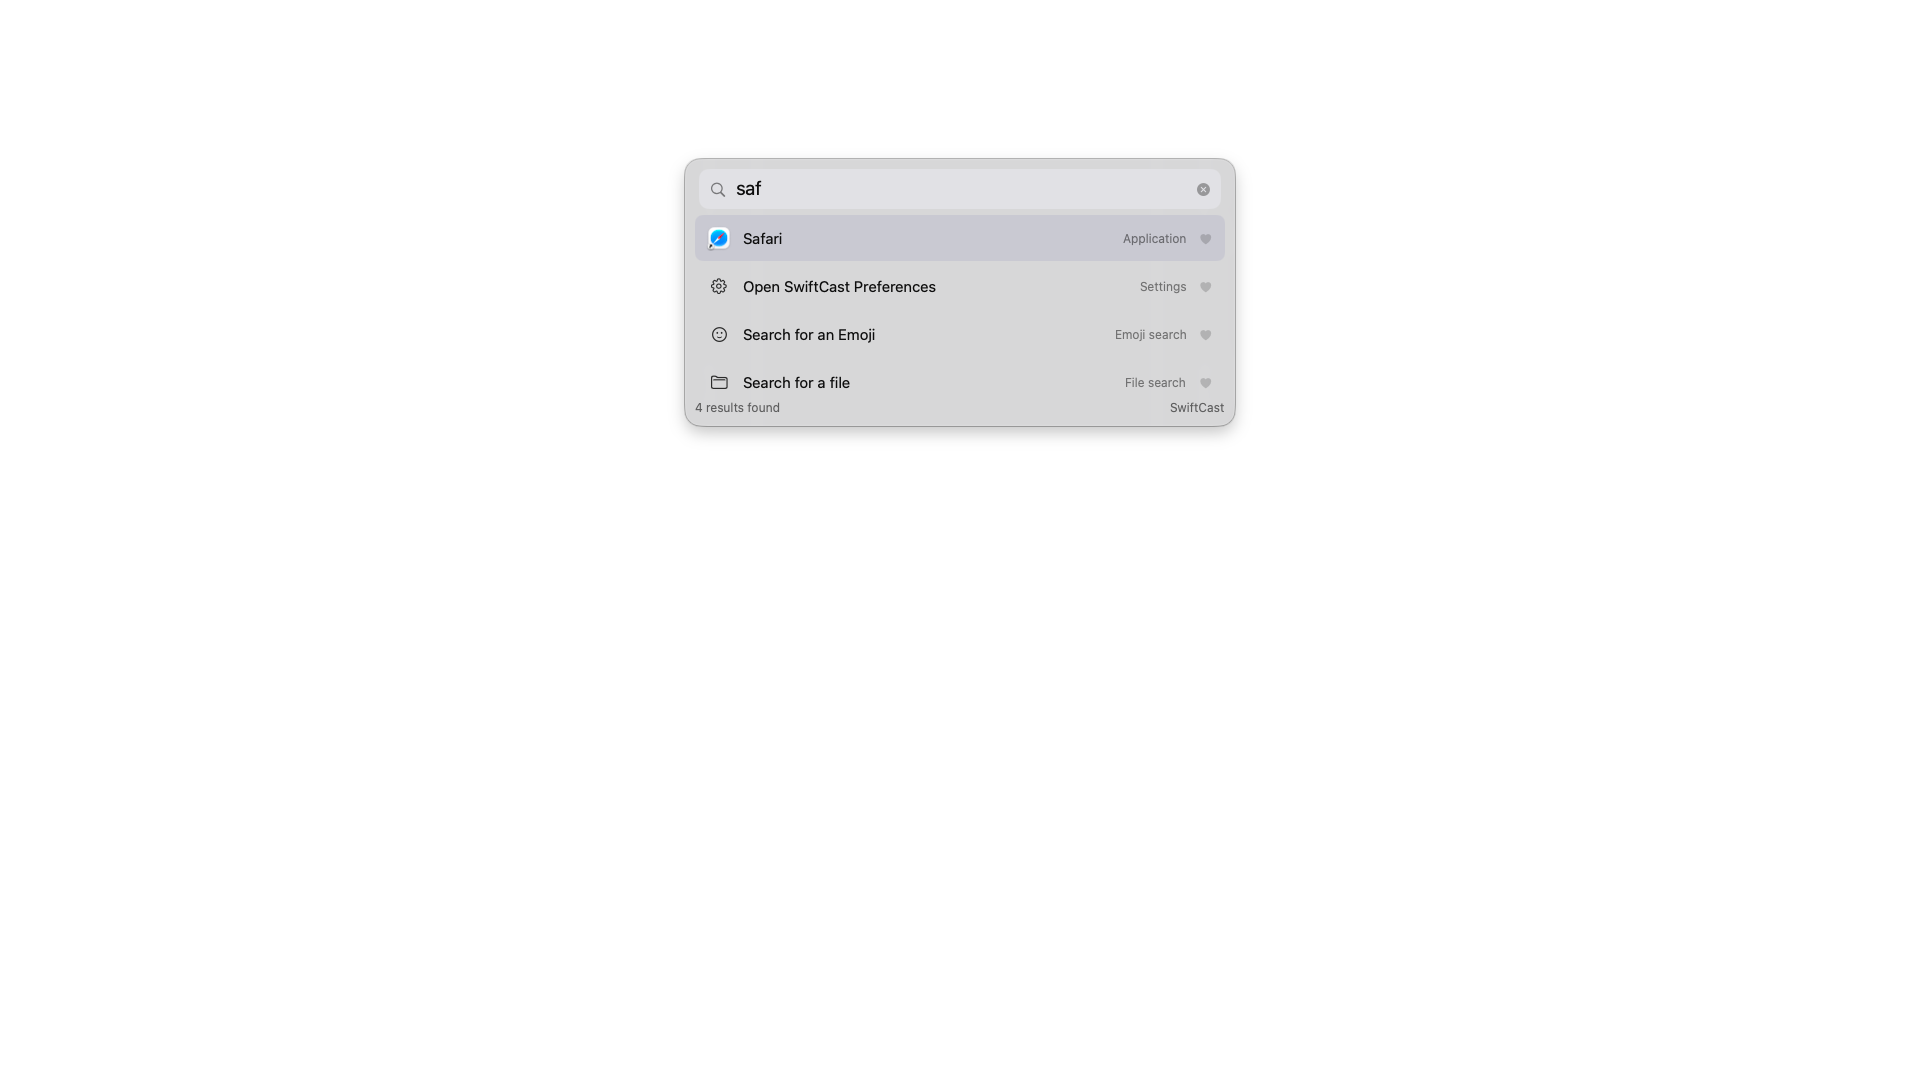
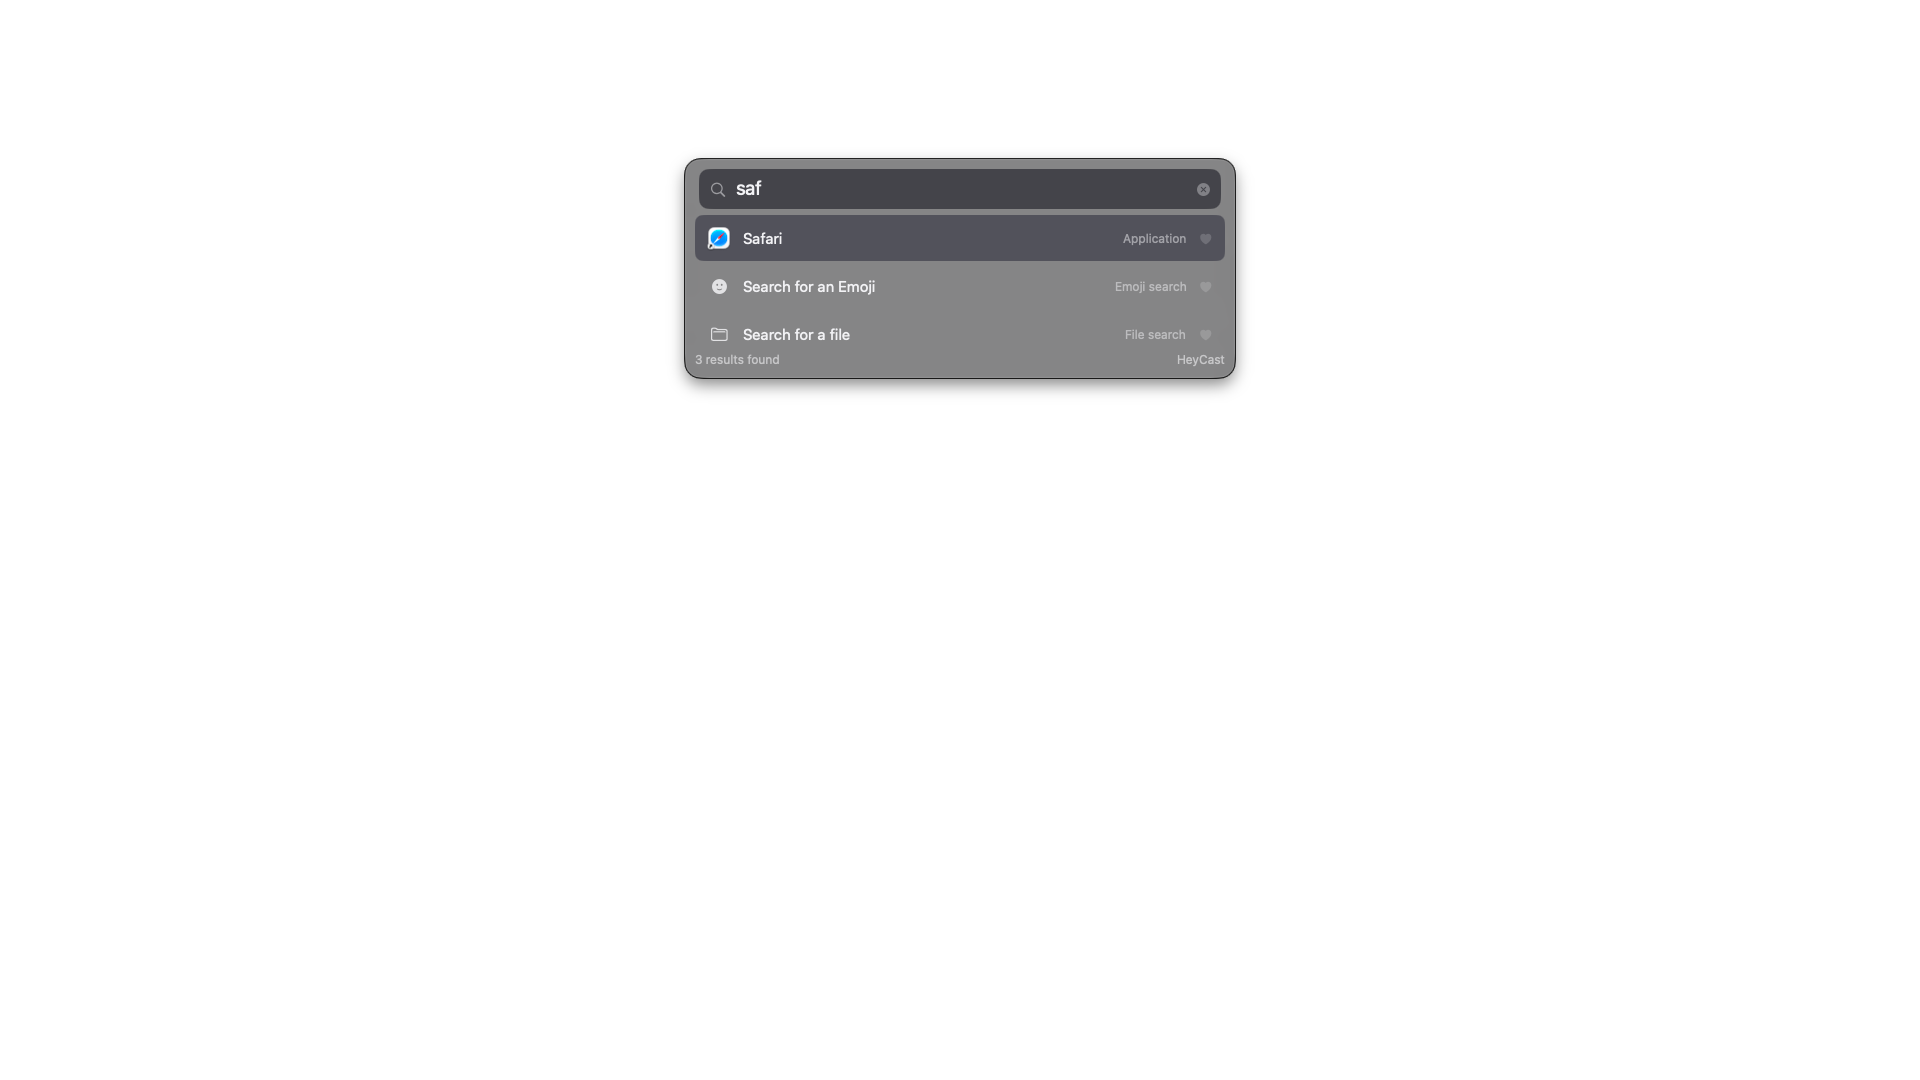
Rebrand SwiftCast -> HeyCast
Hey = the first word that starts everything; cast = call it out, invoke it.

- Module/sources: Sources/HeyCast, target HeyCast
- Bundle id com.heycast.app, URL scheme heycast:// (all debug actions)
- Carbon hotkey signature SWCS -> HEYC
- UI strings: menus, settings window title, footer, version row
- Config/clipboard/ranking dir: ~/Library/Application Support/HeyCast
  (data migrated from SwiftCast dir)
- README/PLAN rebranded with the name rationale; refreshed screenshots

Changed region(s): [[0.3438, 0.1222, 0.6562, 0.4278]]

diff --git a/Sources/HeyCast/AppDelegate.swift b/Sources/HeyCast/AppDelegate.swift
@@ -18,7 +18,7 @@ final class AppDelegate: NSObject, NSApplicationDelegate {
         Self.shared = self
     }
 
-    /// Setup runs here (before Apple events like swiftcast:// URLs arrive).
+    /// Setup runs here (before Apple events like heycast:// URLs arrive).
     func applicationWillFinishLaunching(_ notification: Notification) {
         NSApp.setActivationPolicy(.accessory)
 
@@ -43,7 +43,7 @@ final class AppDelegate: NSObject, NSApplicationDelegate {
         if model.config.showOnStartup {
             model.show()
         }
-        NSLog("SwiftCast started (v%@)", LauncherModel.appVersion)
+        NSLog("HeyCast started (v%@)", LauncherModel.appVersion)
     }
 
     func applicationShouldTerminateAfterLastWindowClosed(_ sender: NSApplication) -> Bool { false }
@@ -52,30 +52,30 @@ final class AppDelegate: NSObject, NSApplicationDelegate {
         model?.saveRankingNow()
     }
 
-    // MARK: URL scheme (swiftcast://show | toggle | quit | open?target=NAME)
+    // MARK: URL scheme (heycast://show | toggle | quit | open?target=NAME)
 
     func application(_ application: NSApplication, open urls: [URL]) {
-        NSLog("SwiftCast: open URLs called: \(urls)")
+        NSLog("HeyCast: open URLs called: \(urls)")
         guard model != nil else {
             pendingURLs.append(contentsOf: urls)
             return
         }
-        for url in urls where url.scheme?.lowercased() == "swiftcast" {
+        for url in urls where url.scheme?.lowercased() == "heycast" {
             handleURLScheme(url)
         }
     }
 
     private func handleURLScheme(_ url: URL) {
         let host = url.host?.lowercased() ?? url.path.trimmingCharacters(in: CharacterSet(charactersIn: "/"))
-        NSLog("SwiftCast: URL scheme action '\(host)'")
+        NSLog("HeyCast: URL scheme action '\(host)'")
         switch host {
         case "show":
             if !model.panelIsVisible { model.show() }
         case "toggle":
             model.toggle()
         case "screenshot":
-            // Debug aid: capture the launcher panel to /tmp/swiftcast_panel.png
-            panelController.capturePanel(to: URL(fileURLWithPath: "/tmp/swiftcast_panel.png"))
+            // Debug aid: capture the launcher panel to /tmp/heycast_panel.png
+            panelController.capturePanel(to: URL(fileURLWithPath: "/tmp/heycast_panel.png"))
         case "capture":
             panelController.captureAllWindows()
         case "query":
@@ -134,9 +134,9 @@ func buildMainMenu() -> NSMenu {
     let appItem = NSMenuItem()
     menu.addItem(appItem)
     let appMenu = NSMenu()
-    appMenu.addItem(NSMenuItem(title: "About SwiftCast", action: #selector(NSApplication.orderFrontStandardAboutPanel(_:)), keyEquivalent: ""))
+    appMenu.addItem(NSMenuItem(title: "About HeyCast", action: #selector(NSApplication.orderFrontStandardAboutPanel(_:)), keyEquivalent: ""))
     appMenu.addItem(.separator())
-    appMenu.addItem(NSMenuItem(title: "Quit SwiftCast", action: #selector(NSApplication.terminate(_:)), keyEquivalent: "q"))
+    appMenu.addItem(NSMenuItem(title: "Quit HeyCast", action: #selector(NSApplication.terminate(_:)), keyEquivalent: "q"))
     appItem.submenu = appMenu
 
     let editItem = NSMenuItem()

diff --git a/Sources/HeyCast/UI/PanelController.swift b/Sources/HeyCast/UI/PanelController.swift
@@ -84,17 +84,17 @@ final class PanelController: NSObject, NSWindowDelegate {
     // MARK: show/hide
 
     private func showPanel() {
-        NSLog("SwiftCast: showPanel (frame before: \(panel.frame))")
+        NSLog("HeyCast: showPanel (frame before: \(panel.frame))")
         positionPanelIfNeeded()
         resizeToFitContent()
         NSApp.activate(ignoringOtherApps: true)
         panel.makeKeyAndOrderFront(nil)
         isPositionedOnce = true
-        NSLog("SwiftCast: showPanel done (frame after: \(panel.frame), visible: \(panel.isVisible), key: \(panel.isKeyWindow))")
+        NSLog("HeyCast: showPanel done (frame after: \(panel.frame), visible: \(panel.isVisible), key: \(panel.isKeyWindow))")
     }
 
     private func hidePanel() {
-        NSLog("SwiftCast: hidePanel called")
+        NSLog("HeyCast: hidePanel called")
         panel.orderOut(nil)
     }
 
@@ -240,20 +240,20 @@ final class PanelController: NSObject, NSWindowDelegate {
     func captureAllWindows() {
         for (index, window) in NSApp.windows.enumerated() where window.isVisible && window.frame.width > 1 && window.windowNumber > 0 {
             let label = window == panel ? "panel" : "win\(index)"
-            captureWindow(window, to: URL(fileURLWithPath: "/tmp/swiftcast_\(label).png"))
+            captureWindow(window, to: URL(fileURLWithPath: "/tmp/heycast_\(label).png"))
         }
     }
 
     private func captureWindow(_ window: NSWindow, to url: URL) {
         let number = window.windowNumber
-        NSLog("SwiftCast: capturing window num=\(number) title=\(window.title) visible=\(window.isVisible)")
+        NSLog("HeyCast: capturing window num=\(number) title=\(window.title) visible=\(window.isVisible)")
         guard number > 0, number < Int(UInt32.max) else { return }
         let windowID = CGWindowID(UInt32(number))
         if let cgImage = CGWindowListCreateImage(.infinite, .optionIncludingWindow, windowID, [.bestResolution]) {
             let rep = NSBitmapImageRep(cgImage: cgImage)
             if let png = rep.representation(using: .png, properties: [:]) {
                 try? png.write(to: url)
-                NSLog("SwiftCast: captured \(url.path)")
+                NSLog("HeyCast: captured \(url.path)")
             }
         }
     }
@@ -263,7 +263,7 @@ final class PanelController: NSObject, NSWindowDelegate {
     func windowDidResignKey(_ notification: Notification) {
         // Hide when the launcher loses focus, unless the settings window
         // (owned by the same app) took it.
-        if let key = NSApp.keyWindow, key != panel, key.identifier == NSUserInterfaceItemIdentifier("SwiftCastSettings") {
+        if let key = NSApp.keyWindow, key != panel, key.identifier == NSUserInterfaceItemIdentifier("HeyCastSettings") {
             return
         }
         if model.panelIsVisible {

diff --git a/Sources/HeyCast/Model/LauncherModel.swift b/Sources/HeyCast/Model/LauncherModel.swift
@@ -360,7 +360,7 @@ final class LauncherModel: ObservableObject {
         // Quit …
         if query.lowercased().hasPrefix("quit") {
             out.append(ResultItem(id: "builtin-quit-self",
-                                  title: "Quit SwiftCast",
+                                  title: "Quit HeyCast",
                                   subtitle: "Utility",
                                   icon: .symbol("power"),
                                   action: .quitSelf))
@@ -472,7 +472,7 @@ final class LauncherModel: ObservableObject {
 
     private func builtinResults() -> [ResultItem] {
         var out = [
-            ResultItem(id: "builtin-settings", title: "Open SwiftCast Preferences", subtitle: "Settings",
+            ResultItem(id: "builtin-settings", title: "Open HeyCast Preferences", subtitle: "Settings",
                        icon: .symbol("gearshape"), searchName: "settings", action: .openSettings),
             ResultItem(id: "builtin-emoji", title: "Search for an Emoji", subtitle: "Emoji search",
                        icon: .symbol("face.smiling"), searchName: "emoji", action: .switchPage(.emoji)),
@@ -480,9 +480,9 @@ final class LauncherModel: ObservableObject {
                        icon: .symbol("clipboard"), searchName: "clipboard", action: .switchPage(.clipboard)),
             ResultItem(id: "builtin-files", title: "Search for a file", subtitle: "File search",
                        icon: .symbol("folder"), searchName: "file search", action: .switchPage(.files)),
-            ResultItem(id: "builtin-reload", title: "Reload SwiftCast", subtitle: "Reloads config & apps",
+            ResultItem(id: "builtin-reload", title: "Reload HeyCast", subtitle: "Reloads config & apps",
                        icon: .symbol("arrow.clockwise"), searchName: "reload", action: .reload),
-            ResultItem(id: "builtin-version", title: "SwiftCast v\(Self.appVersion)", subtitle: "Native Swift port of RustCast",
+            ResultItem(id: "builtin-version", title: "HeyCast v\(Self.appVersion)", subtitle: "Native Swift port of RustCast",
                        icon: .symbol("bolt.fill"), action: .display),
             ResultItem(id: "builtin-ferris", title: "Ferris Plushies", subtitle: "Easter egg",
                        icon: .symbol("crown"), action: .openURL(URL(string: "https://ferris.rs")!)),

diff --git a/Sources/HeyCast/UI/StatusItemController.swift b/Sources/HeyCast/UI/StatusItemController.swift
@@ -10,7 +10,7 @@ final class StatusItemController {
         self.model = model
         guard model.config.showTrayIcon else { return }
         let item = NSStatusBar.system.statusItem(withLength: NSStatusItem.squareLength)
-        let icon = NSImage(systemSymbolName: "bolt.fill", accessibilityDescription: "SwiftCast")?
+        let icon = NSImage(systemSymbolName: "bolt.fill", accessibilityDescription: "HeyCast")?
             .withSymbolConfiguration(.init(pointSize: 13, weight: .semibold))
         item.button?.image = icon
         item.menu = buildMenu()
@@ -30,7 +30,7 @@ final class StatusItemController {
 
     private func buildMenu() -> NSMenu {
         let menu = NSMenu()
-        let version = NSMenuItem(title: "SwiftCast v\(LauncherModel.appVersion)", action: nil, keyEquivalent: "")
+        let version = NSMenuItem(title: "HeyCast v\(LauncherModel.appVersion)", action: nil, keyEquivalent: "")
         version.isEnabled = false
         menu.addItem(version)
 
@@ -63,7 +63,7 @@ final class StatusItemController {
 
         menu.addItem(.separator())
 
-        let about = NSMenuItem(title: "About SwiftCast", action: #selector(showAbout), keyEquivalent: "")
+        let about = NSMenuItem(title: "About HeyCast", action: #selector(showAbout), keyEquivalent: "")
         about.target = self
         menu.addItem(about)
 
@@ -73,7 +73,7 @@ final class StatusItemController {
 
         menu.addItem(.separator())
 
-        let quit = NSMenuItem(title: "Quit SwiftCast", action: #selector(quit), keyEquivalent: "q")
+        let quit = NSMenuItem(title: "Quit HeyCast", action: #selector(quit), keyEquivalent: "q")
         quit.keyEquivalentModifierMask = [.command]
         quit.target = self
         menu.addItem(quit)
@@ -90,7 +90,7 @@ final class StatusItemController {
     }
     @objc private func showAbout() {
         NSApplication.shared.orderFrontStandardAboutPanel(options: [
-            .applicationName: "SwiftCast",
+            .applicationName: "HeyCast",
             .applicationVersion: LauncherModel.appVersion,
         ])
     }

diff --git a/Sources/HeyCast/UI/SettingsWindow.swift b/Sources/HeyCast/UI/SettingsWindow.swift
@@ -5,7 +5,7 @@ import SwiftUI
 /// config and pushes it into the model (which persists + applies hotkeys).
 @MainActor
 final class SettingsWindowController {
-    static let windowIdentifier = "SwiftCastSettings"
+    static let windowIdentifier = "HeyCastSettings"
 
     private var window: NSWindow?
     private weak var model: LauncherModel?
@@ -13,7 +13,7 @@ final class SettingsWindowController {
     func show(model: LauncherModel) {
         self.model = model
         if window == nil {
-            NSLog("SwiftCast: creating settings window")
+            NSLog("HeyCast: creating settings window")
             let content = SettingsView(model: model)
             let window = NSWindow(
                 contentRect: NSRect(x: 0, y: 0, width: 620, height: 480),
@@ -21,7 +21,7 @@ final class SettingsWindowController {
                 backing: .buffered,
                 defer: false
             )
-            window.title = "SwiftCast Settings"
+            window.title = "HeyCast Settings"
             window.identifier = NSUserInterfaceItemIdentifier(Self.windowIdentifier)
             window.isReleasedWhenClosed = false
             window.center()
@@ -31,7 +31,7 @@ final class SettingsWindowController {
         }
         window?.makeKeyAndOrderFront(nil)
         NSApp.activate(ignoringOtherApps: true)
-        NSLog("SwiftCast: settings window shown (visible: \(window?.isVisible ?? false))")
+        NSLog("HeyCast: settings window shown (visible: \(window?.isVisible ?? false))")
     }
 
     func hide() {

diff --git a/Sources/HeyCast/UI/LauncherView.swift b/Sources/HeyCast/UI/LauncherView.swift
@@ -23,7 +23,7 @@ struct LauncherView: View {
             }
         }
         .frame(maxWidth: .infinity, maxHeight: .infinity)
-        .environment(\.swiftcastTheme, model.theme)
+        .environment(\.heycastTheme, model.theme)
         .onReceive(model.$panelIsVisible) { visible in
             searchFocused = visible
         }
@@ -146,7 +146,7 @@ struct LauncherView: View {
 
     private var pageLabel: String {
         switch model.page {
-        case .main: return "SwiftCast"
+        case .main: return "HeyCast"
         case .files: return "File search"
         case .clipboard: return "Clipboard"
         case .emoji: return "Emoji"
@@ -274,7 +274,7 @@ private struct ThemeKey: EnvironmentKey {
 }
 
 extension EnvironmentValues {
-    var swiftcastTheme: Theme {
+    var heycastTheme: Theme {
         get { self[ThemeKey.self] }
         set { self[ThemeKey.self] = newValue }
     }

diff --git a/Sources/HeyCast/Search/FileSearchService.swift b/Sources/HeyCast/Search/FileSearchService.swift
@@ -30,7 +30,7 @@ final class FileSearchService: NSObject, NSMetadataQueryDelegate {
             ? [NSMetadataQueryLocalComputerScope]
             : searchDirs.map { ($0 as NSString).expandingTildeInPath }
         mdQuery.searchScopes = scopes
-        NSLog("SwiftCast: mdquery scopes: \(scopes)")
+        NSLog("HeyCast: mdquery scopes: \(scopes)")
         // Escape quotes/wildcards for the LIKE pattern, then pass the whole
         // pattern as the predicate argument (embedding %@ inside quotes
         // breaks the pattern match).
@@ -88,7 +88,7 @@ final class FileSearchService: NSObject, NSMetadataQueryDelegate {
         }
         query.enableUpdates()
         results = hits
-        NSLog("SwiftCast: file search collected \(hits.count) hits")
+        NSLog("HeyCast: file search collected \(hits.count) hits")
         onUpdate?()
     }
 

diff --git a/Sources/HeyCast/Services/HotKeyManager.swift b/Sources/HeyCast/Services/HotKeyManager.swift
@@ -140,7 +140,7 @@ final class HotKeyManager {
         let id = nextID
         nextID += 1
         var ref: EventHotKeyRef?
-        let hotKeyID = EventHotKeyID(signature: OSType(0x53574353) /* SWCS */, id: id)
+        let hotKeyID = EventHotKeyID(signature: OSType(0x48455943) /* HEYC */, id: id)
         let status = RegisterEventHotKey(
             shortcut.keyCode,
             shortcut.modifiers.carbonFlags,
@@ -150,7 +150,7 @@ final class HotKeyManager {
             &ref
         )
         guard status == noErr else {
-            NSLog("SwiftCast: failed to register hotkey %@ (%d)", shortcut.displayString, status)
+            NSLog("HeyCast: failed to register hotkey %@ (%d)", shortcut.displayString, status)
             return
         }
         registrations.append(Registration(shortcut: shortcut, id: id, hotKeyRef: ref))

diff --git a/Sources/HeyCast/Services/ClipboardStore.swift b/Sources/HeyCast/Services/ClipboardStore.swift
@@ -26,13 +26,13 @@ struct ClipboardEntry: Identifiable, Equatable {
 /// RustCast's clipboard.db schema).
 final class ClipboardStore {
     private var db: OpaquePointer?
-    private let queue = DispatchQueue(label: "com.swiftcast.clipboard-db")
+    private let queue = DispatchQueue(label: "com.heycast.clipboard-db")
 
     init() {
         let url = Config.directory.appendingPathComponent("clipboard.db")
         try? FileManager.default.createDirectory(at: Config.directory, withIntermediateDirectories: true)
         guard sqlite3_open(url.path, &db) == SQLITE_OK else {
-            NSLog("SwiftCast: failed to open clipboard db at \(url.path)")
+            NSLog("HeyCast: failed to open clipboard db at \(url.path)")
             db = nil
             return
         }

diff --git a/Sources/HeyCast/Model/Config.swift b/Sources/HeyCast/Model/Config.swift
@@ -9,7 +9,7 @@ enum MainPane: String, Codable, CaseIterable {
 
     var displayName: String {
         switch self {
-        case .blank: return "SwiftCast"
+        case .blank: return "HeyCast"
         case .favourites: return "Favourites"
         case .frequentlyUsed: return "Frequently Used"
         case .events: return "Events"
@@ -69,7 +69,7 @@ struct Config: Codable {
 
     static let directory: URL = {
         let base = FileManager.default.urls(for: .applicationSupportDirectory, in: .userDomainMask).first!
-        return base.appendingPathComponent("SwiftCast", isDirectory: true)
+        return base.appendingPathComponent("HeyCast", isDirectory: true)
     }()
 
     static var fileURL: URL { directory.appendingPathComponent("config.json") }

diff --git a/Package.swift b/Package.swift
@@ -2,12 +2,12 @@
 import PackageDescription
 
 let package = Package(
-    name: "SwiftCast",
+    name: "HeyCast",
     platforms: [.macOS(.v13)],
     targets: [
         .executableTarget(
-            name: "SwiftCast",
-            path: "Sources/SwiftCast",
+            name: "HeyCast",
+            path: "Sources/HeyCast",
             resources: [
                 .process("Resources")
             ],

diff --git a/scripts/make_icon.swift b/scripts/make_icon.swift
@@ -1,4 +1,4 @@
-// Renders the SwiftCast app icon (gradient rounded square + bolt) and writes
+// Renders the HeyCast app icon (gradient rounded square + bolt) and writes
 // iconset PNGs; `make_app.sh` turns them into an .icns with iconutil.
 // Usage: swift scripts/make_icon.swift <output-iconset-dir>
 import AppKit
